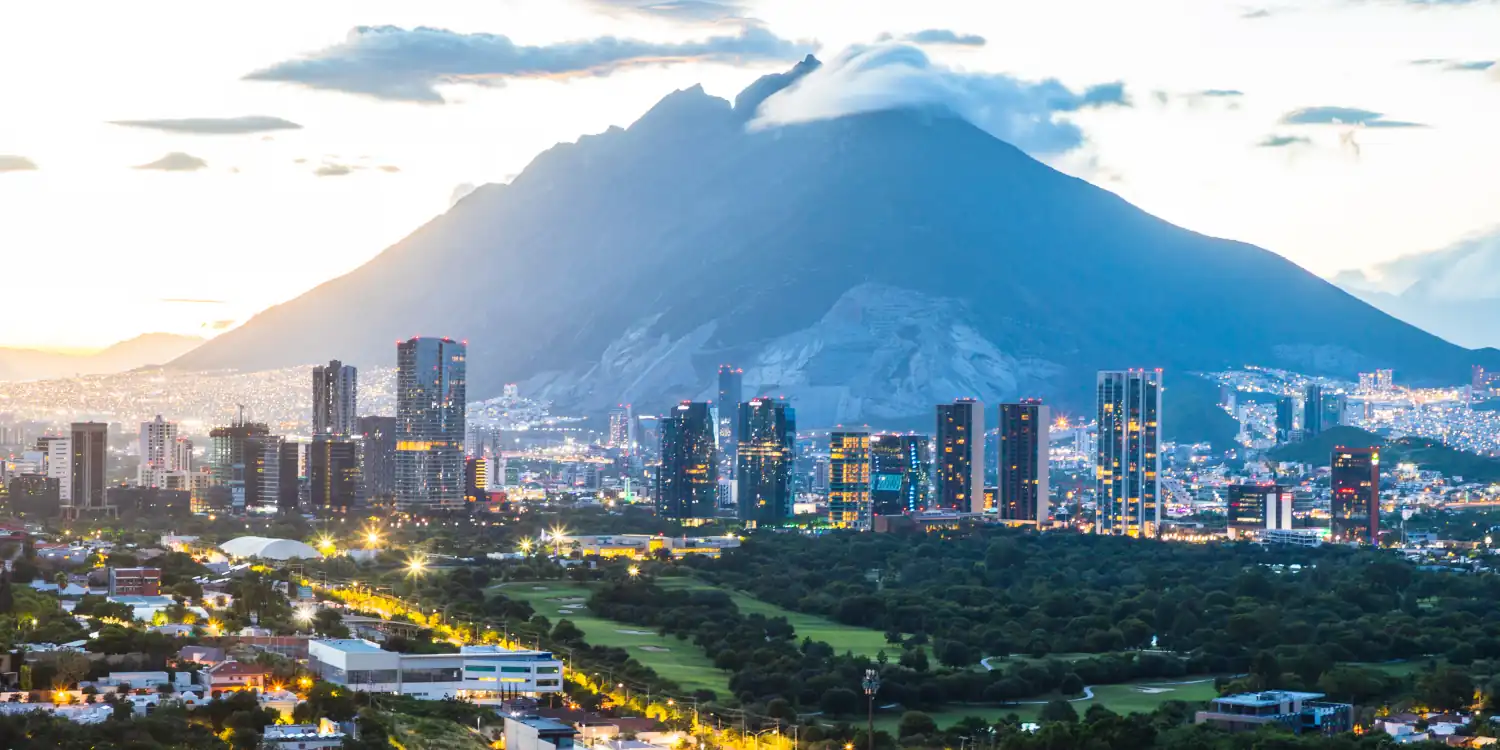
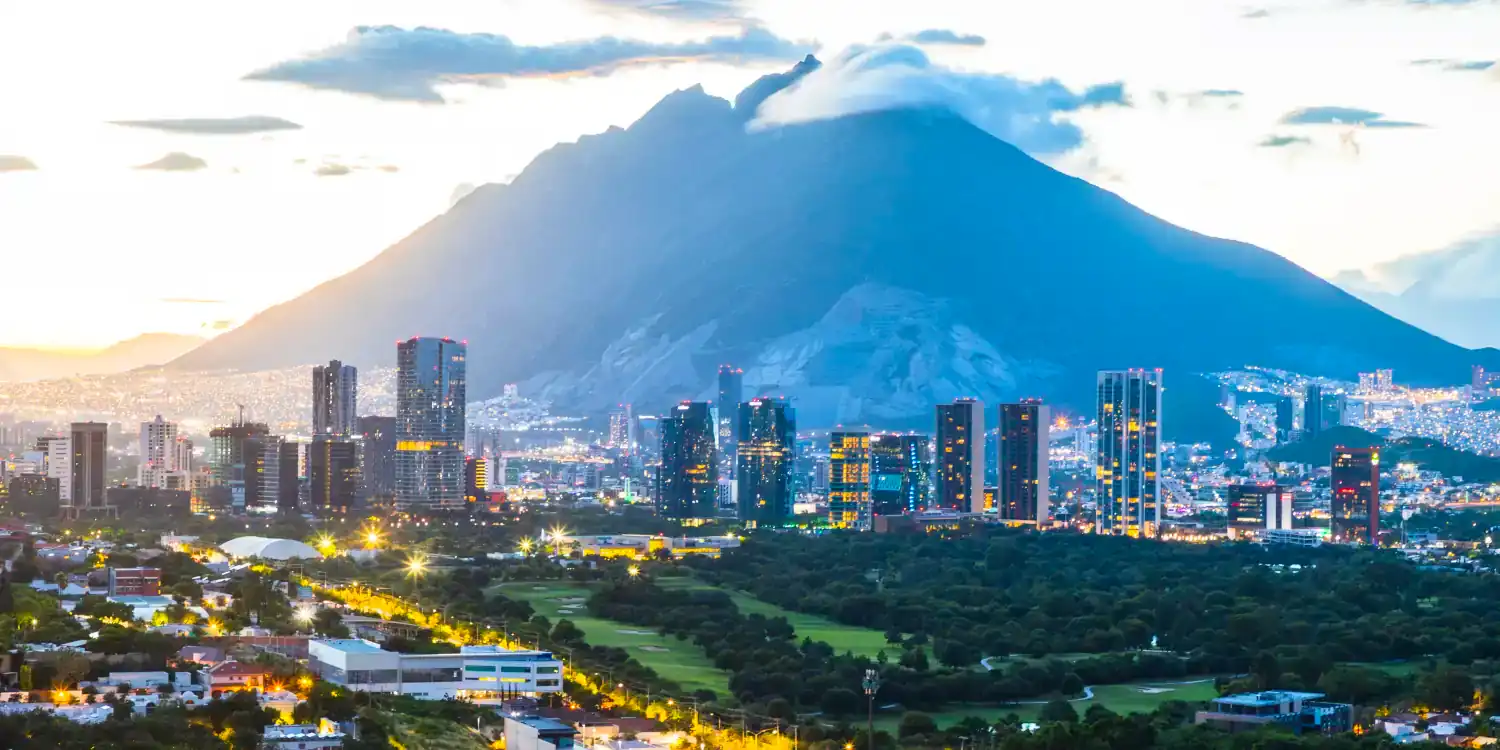
hero image optimized saturation colors

diff --git a/chamber/styles/base.css b/chamber/styles/base.css
@@ -175,7 +175,7 @@ body {
   height: auto;
   object-fit: cover;
   display: block;
-  filter: brightness(0.7);
+  filter: brightness(0.8);
   background-color: var(--background1);
 }
 
